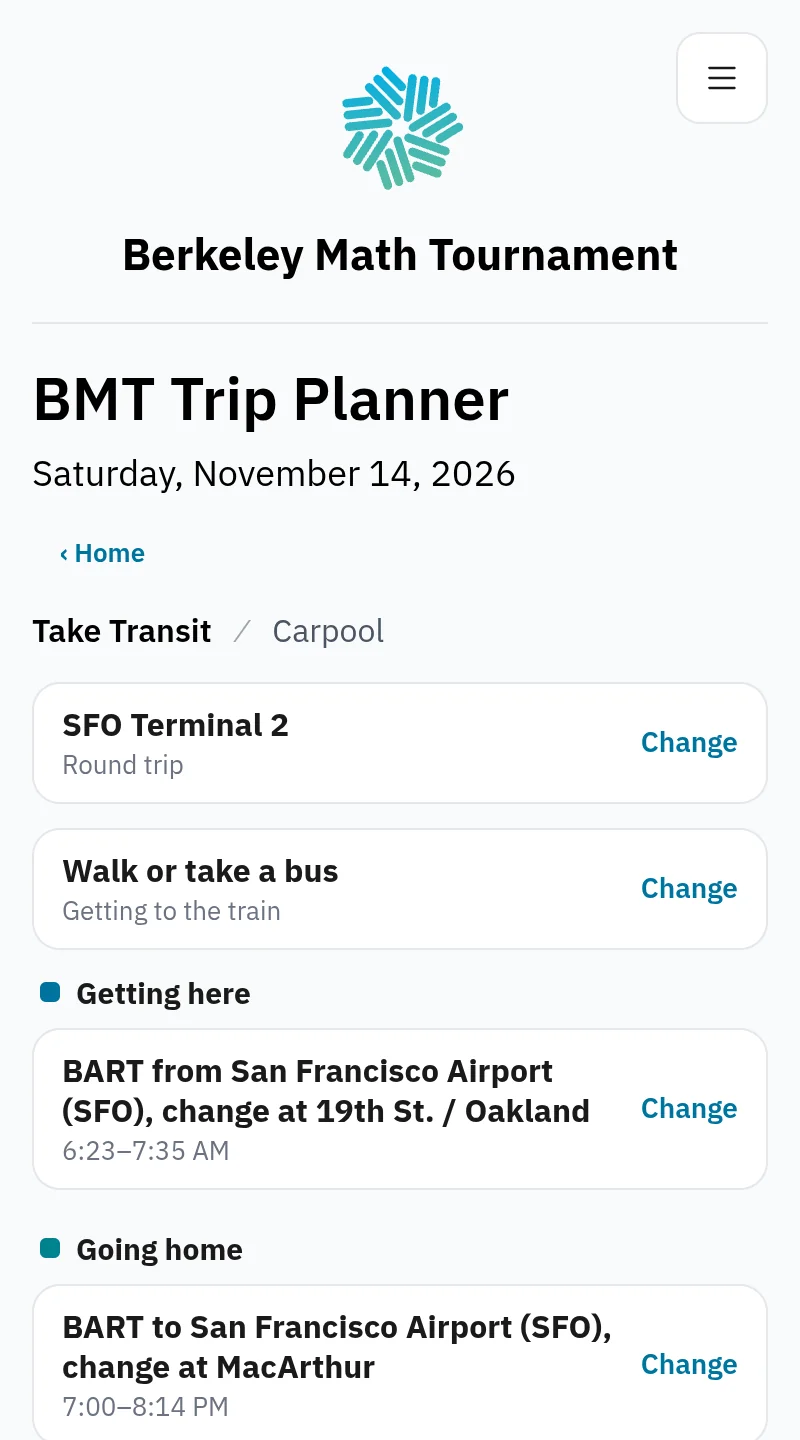
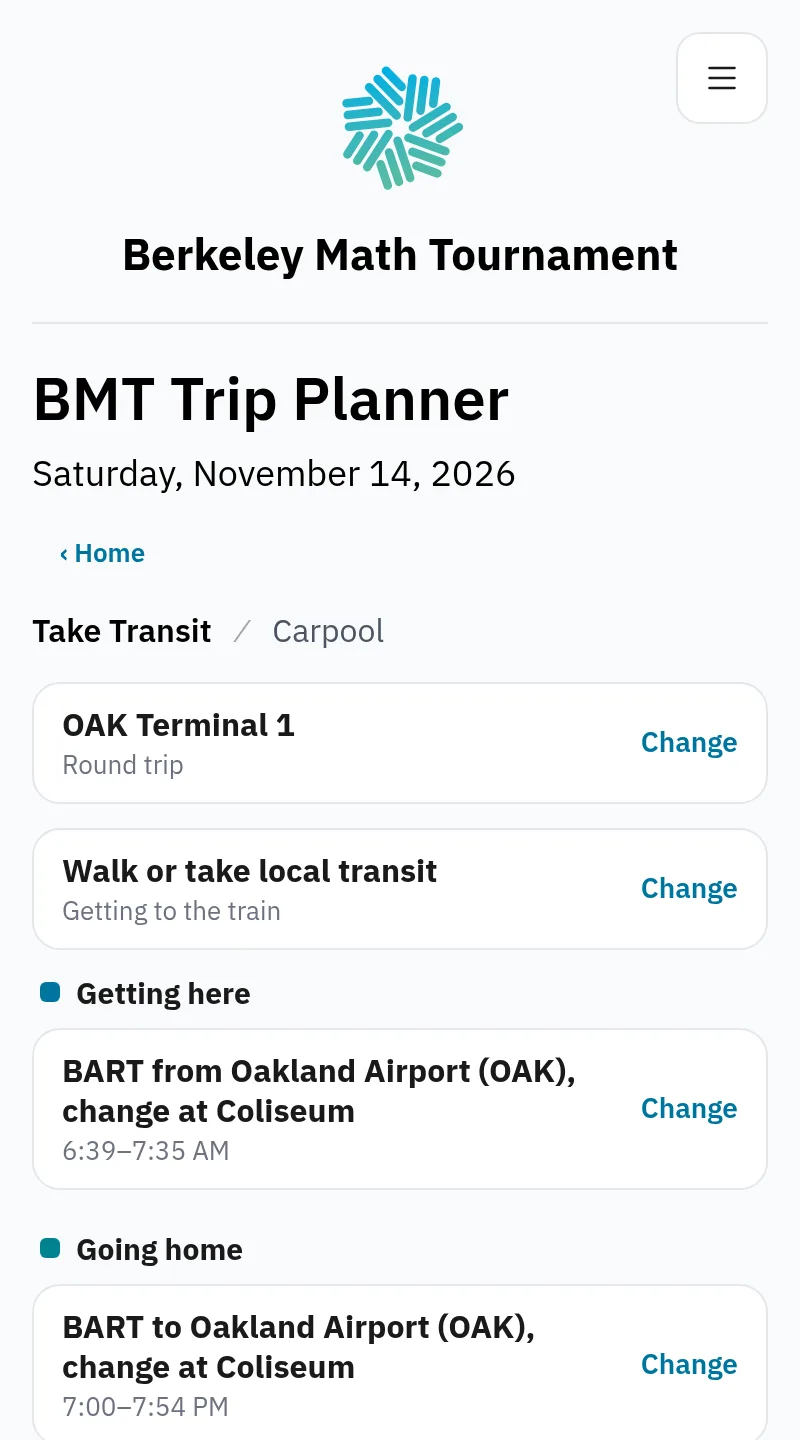
TakeTransit post: example trip from OAK, posters retaken from the current planner

diff --git a/content/news/2026-10-14_bmt-2026-take-transit.md b/content/news/2026-10-14_bmt-2026-take-transit.md
@@ -15,9 +15,9 @@ So, we encourage everyone to consider taking public transit or carpooling! Just 
 
 {% button_link(href="https://taketransit.berkeley.mt", external=true, center=true) %} Open in BMT Trip Planner {% end %}
 
-Here's an example of a trip that's already planned, from SFO. Tap **See this trip** to look around, or tap **Change** to plan from your own location.
+Here's an example of a trip that's already planned, from OAK. Tap **See this trip** to look around, or tap **Change** to plan from your own location.
 
-{{ planner_embed(path="#trip?f=37.6161,-122.3844&n=SFO%20Terminal%202&m=transit&o=wSFIA&o2=wSFIA", poster="/news/take-transit-planner-sample.webp", wide="/news/take-transit-planner-sample-wide.webp", alt="BMT Trip Planner showing a trip from SFO Terminal 2 to Dwinelle Hall") }}
+{{ planner_embed(path="#trip?f=37.71209,-122.21451&n=OAK%20Terminal%201&m=transit&o=wOAKL&o2=wOAKL", poster="/news/take-transit-planner-sample.webp", wide="/news/take-transit-planner-sample-wide.webp", alt="BMT Trip Planner showing a trip from OAK Terminal 1 to Dwinelle Hall") }}
 
 ## Ways to get to and from BMT
 
